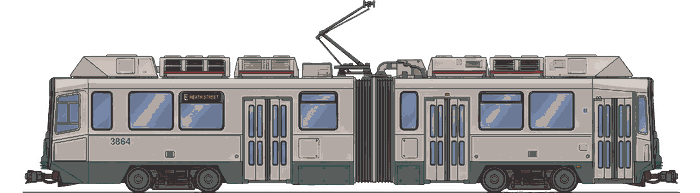
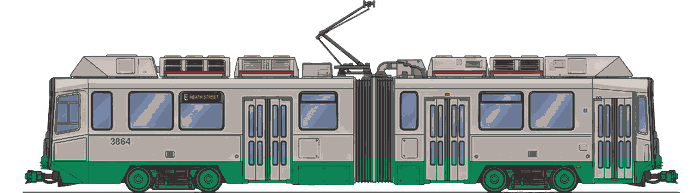
Add dedicated Sign In page; auto-poll for short ID assignment

Changed region(s): [[0.03, 0.8083, 0.96, 0.9948]]

diff --git a/index.html b/index.html
@@ -1705,6 +1705,21 @@ body.hide-chip-weather .route-status-chip > .chip-sep:not(.date-dot){display:non
    </div>
   </div>
 
+  <div class="panel full-bleed" id="signinPanel" style="display:none;">
+   <div class="full-bleed-inner">
+    <div class="panel-head">
+      <h2>Sign In</h2>
+      <span class="note">&mdash;</span>
+    </div>
+    <div class="back-link" id="signinBackBtn">&lsaquo; Back</div>
+    <div class="empty-state" style="text-align:left; padding:10px 4px;">
+      Sign in to report train info, set diversions, earn points, and more.
+    </div>
+    <button class="account-btn" id="signinGoogleBtn" style="width:100%; margin-top:14px;">Sign in with Google</button>
+    <button class="account-btn" id="signinIdBtn" style="width:100%; margin-top:10px; background:#374151;">Sign in with ID + PIN</button>
+   </div>
+  </div>
+
   <div class="panel full-bleed" id="carDetailPanel" style="display:none;">
    <div class="full-bleed-inner">
     <!-- No panel-head here on purpose: the outer header above already shows
@@ -2105,6 +2120,9 @@ const PAGES = {
   },
   SETTINGS: {
     hex:'#374151', label:'Settings', isSettings:true
+  },
+  SIGNIN: {
+    hex:'#1F2937', label:'Sign In', isSignin:true
   },
   CARDETAIL: {
     // No fixed label/hex — this page's identity (which car, which line) is
@@ -2977,6 +2995,42 @@ let stopArrivalTracker = {};
        match /admins/{uid} {
          allow read: if request.auth != null;
          allow write: if false; // add moderators manually in the Firebase console
+       }
+       // Same shape/trust model as admins/{uid} above (readable by any
+       // signed-in visitor — completeSignIn checks their own doc, the
+       // Members admin page lists the whole collection — writable only by
+       // moderators), except trusted members CAN be added/removed from the
+       // app itself (Members page), unlike admins.
+       match /trusted_members/{uid} {
+         allow read: if request.auth != null;
+         allow write: if request.auth != null
+           && exists(/databases/$(database)/documents/admins/$(request.auth.uid));
+       }
+       // Moderator-pushed alerts/notifications (Publish Alerts & Diversions
+       // page) — trigger a real push via sendPushOnModAlert/
+       // sendPushOnModNotification in functions/index.js the instant one is
+       // created, so write access is deliberately narrower than community_
+       // alerts below: only moderators or trusted members (both allowed to
+       // reach that page in the UI) can create one, not "if true". Read is
+       // open since every visitor's Alerts & Notifications modal loads
+       // these directly. Expired docs get opportunistically deleted by
+       // whichever visitor's client happens to load the list next
+       // (loadModAlerts/loadModNotifications) — that delete silently no-ops
+       // for a non-moderator visitor since it falls under this same write
+       // rule, which is fine, it's just best-effort tidying.
+       match /mod_alerts/{alertId} {
+         allow read: if true;
+         allow write: if request.auth != null && (
+           exists(/databases/$(database)/documents/admins/$(request.auth.uid)) ||
+           exists(/databases/$(database)/documents/trusted_members/$(request.auth.uid))
+         );
+       }
+       match /mod_notifications/{notifId} {
+         allow read: if true;
+         allow write: if request.auth != null && (
+           exists(/databases/$(database)/documents/admins/$(request.auth.uid)) ||
+           exists(/databases/$(database)/documents/trusted_members/$(request.auth.uid))
+         );
        }
        // pair_history used to live here — it's been moved to a Google Sheet
        // (see functions/index.js's commitPairChanges/getPairHistory) to cut
@@ -3893,7 +3947,7 @@ function switchPage(key){
   updateUrlForPage(state.activeLine, key);
   updateDocumentTitle(state.activeLine, key);
   const page = PAGES[key];
-  if(!page.isRoster && !page.isMembers && !page.isModNotifs && !page.isEditLogs && !page.isSettings && !page.isPoints && !page.isBugs && !page.isInspectors && !page.isCarDetail) state.lastMainPage = key;
+  if(!page.isRoster && !page.isMembers && !page.isModNotifs && !page.isEditLogs && !page.isSettings && !page.isPoints && !page.isBugs && !page.isInspectors && !page.isCarDetail && !page.isSignin) state.lastMainPage = key;
   // Car detail pages don't have a fixed label like every other page — the
   // header shows "Car <number>" built from whichever car is currently
   // being viewed (see state.viewingCarNumber, set just before this runs).
@@ -3929,6 +3983,7 @@ function switchPage(key){
   const inspectorsPanel = document.getElementById('inspectorsPanel');
   const settingsPanel = document.getElementById('settingsPanel');
   const carDetailPanel = document.getElementById('carDetailPanel');
+  const signinPanel = document.getElementById('signinPanel');
 
   mainGrid.style.display = 'none';
   const trainsPanelToggleBtn = document.getElementById('trainsPanelToggle');
@@ -3942,6 +3997,7 @@ function switchPage(key){
   inspectorsPanel.style.display = 'none';
   settingsPanel.style.display = 'none';
   carDetailPanel.style.display = 'none';
+  signinPanel.style.display = 'none';
   // Any live Leaflet map instance is tied to a DOM node inside carDetailBody;
   // hiding the panel above doesn't tear it down, so explicitly destroy it on
   // every navigation. Harmless no-op if nothing's been created yet, and
@@ -3971,7 +4027,7 @@ function switchPage(key){
   // scheduleModalRefresh) — without this, a modal open when you navigate
   // away would silently reopen itself up to 15s later, on top of whatever
   // page you'd since moved to.
-  if(page.isRoster || page.isMembers || page.isModNotifs || page.isEditLogs || page.isPoints || page.isBugs || page.isInspectors || page.isSettings || page.isCarDetail){
+  if(page.isRoster || page.isMembers || page.isModNotifs || page.isEditLogs || page.isPoints || page.isBugs || page.isInspectors || page.isSettings || page.isCarDetail || page.isSignin){
     document.getElementById('carModalOverlay').classList.remove('show');
     modalRefreshToken++;
   }
@@ -4008,6 +4064,10 @@ function switchPage(key){
   }
   if(page.isBugs){
     bugsPanel.style.display = 'block';
+    return;
+  }
+  if(page.isSignin){
+    signinPanel.style.display = 'block';
     return;
   }
   if(page.isInspectors){
@@ -9697,11 +9757,12 @@ const FLAT_ROUTE_TO_PAGE = {
   'points': 'POINTS',
   'moderation': 'MEMBERS',
   'pushalerts': 'MODNOTIFS',
-  'editlog': 'EDITLOGS'
+  'editlog': 'EDITLOGS',
+  'signin': 'SIGNIN'
 };
 const PAGE_TO_FLAT_ROUTE = {
   SETTINGS:'setting', BUGS:'bugs', INSPECTORS:'greenlineinspectors', POINTS:'points',
-  MEMBERS:'moderation', MODNOTIFS:'pushalerts', EDITLOGS:'editlog'
+  MEMBERS:'moderation', MODNOTIFS:'pushalerts', EDITLOGS:'editlog', SIGNIN:'signin'
 };
 function isTrackablePage(key){
   return Object.values(LINE_PAGE_KEYS).some(keys => keys.includes(key));
@@ -9977,6 +10038,7 @@ async function completeSignIn(name, email, uid, photoURL, shortId){
   document.getElementById('userChip').title = name + (state.isModerator ? ' \u00b7 Mod' : (state.isTrustedMember ? ' \u00b7 Trusted Member' : ''));
   document.getElementById('accountNameInput').value = name;
   renderAccountShortId();
+  if(!state.shortId) pollForShortId();
   document.getElementById('menuAccountSection').style.display = 'block';
   document.getElementById('membersMenuLink').style.display = state.isModerator ? 'flex' : 'none';
   document.getElementById('modNotifsMenuLink').style.display = (state.isModerator || state.isTrustedMember) ? 'flex' : 'none';
@@ -9988,6 +10050,13 @@ async function completeSignIn(name, email, uid, photoURL, shortId){
   if(freshSignInInProgress){
     freshSignInInProgress = false;
     showWelcomeScreen(name);
+  }
+  // Signing in from the dedicated Sign In page (see googleSignInBtn's click
+  // handler above) leaves state.currentPage sitting on SIGNIN once this
+  // resolves — that page's two buttons no longer make sense once the person
+  // is actually signed in, so bounce back to wherever they were before.
+  if(state.currentPage === 'SIGNIN'){
+    switchPage(state.lastMainPage || LINE_DEFAULT_PAGE[state.activeLine] || 'B');
   }
   resolveGatedPageIfPending();
 }
@@ -10107,7 +10176,13 @@ async function attemptSignIn(){
   completeSignIn(name.trim(), '', null);
 }
 
-document.getElementById('googleSignInBtn').addEventListener('click', attemptSignIn);
+// Signed out, the person icon used to launch the Google popup directly —
+// now it opens a dedicated Sign In page (see the SIGNIN page/panel above)
+// offering a real choice between Google and ID+PIN instead of assuming
+// Google is what everyone wants. That page's own two buttons (wired below,
+// right after showIdSignInModal is defined) call attemptSignIn/
+// showIdSignInModal exactly like this button used to.
+document.getElementById('googleSignInBtn').addEventListener('click', ()=> switchPage('SIGNIN'));
 
 /* ---------------- Sign-in with ID ----------------
    Everyone gets a permanent 5-digit ID the moment their account is first
@@ -10132,7 +10207,12 @@ function renderAccountShortId(){
 // yet. Re-checked every time the account menu opens (see menuBtn's click
 // listener below) so it fills in the moment it's ready, with no reload
 // needed. No-ops immediately once state.shortId is set, so this is cheap
-// to call on every menu open thereafter.
+// to call on every menu open thereafter. Also polled automatically right
+// after a fresh sign-in (see pollForShortId below) — relying on someone
+// happening to close and reopen the account menu was the whole reason
+// short ID assignment felt like it "took forever": the value was usually
+// ready within a second or two, but nothing ever re-checked it until the
+// person manually reopened the menu.
 async function refreshAccountShortId(){
   if(!firebaseReady || !state.uid || state.shortId) return;
   try{
@@ -10142,6 +10222,25 @@ async function refreshAccountShortId(){
       renderAccountShortId();
     }
   }catch(e){ console.error(e); }
+}
+
+// Called once from completeSignIn() whenever a session starts without a
+// shortId already known — retries refreshAccountShortId a handful of times
+// a couple seconds apart (the Firestore trigger that assigns it usually
+// finishes within a second or two) so the ID shows up in the account menu
+// on its own, instead of only ever updating if the person happens to close
+// and reopen that menu. Self-cancels the moment it succeeds or after
+// SHORT_ID_POLL_MAX_ATTEMPTS tries, whichever comes first — cheap either
+// way since refreshAccountShortId is already a no-op once state.shortId is set.
+const SHORT_ID_POLL_MAX_ATTEMPTS = 10;
+const SHORT_ID_POLL_INTERVAL_MS = 1500;
+function pollForShortId(){
+  let attempts = 0;
+  const timer = setInterval(async ()=>{
+    attempts++;
+    await refreshAccountShortId();
+    if(state.shortId || attempts >= SHORT_ID_POLL_MAX_ATTEMPTS) clearInterval(timer);
+  }, SHORT_ID_POLL_INTERVAL_MS);
 }
 
 document.getElementById('setPinBtn').addEventListener('click', async ()=>{
@@ -10228,6 +10327,14 @@ function showIdSignInModal(){
 }
 
 document.getElementById('idSignInBtn').addEventListener('click', showIdSignInModal);
+
+// The dedicated Sign In page's own two buttons — same handlers as the old
+// direct-to-Google icon and the small "ID" link, just offered side by side
+// on their own page now instead of one being the default and the other a
+// tiny secondary link.
+document.getElementById('signinGoogleBtn').addEventListener('click', attemptSignIn);
+document.getElementById('signinIdBtn').addEventListener('click', showIdSignInModal);
+document.getElementById('signinBackBtn').addEventListener('click', ()=> switchPage(state.lastMainPage || 'B'));
 
 document.getElementById('menuBtn').addEventListener('click', (e)=>{
   e.stopPropagation();
@@ -11556,7 +11663,7 @@ if(headerEl && trackMapPanel){
 function isOnLiveTrackPage(){
   const page = PAGES[state.currentPage];
   if(!page) return false;
-  return !(page.isRoster || page.isMembers || page.isModNotifs || page.isEditLogs || page.isPoints || page.isBugs || page.isInspectors || page.isSettings);
+  return !(page.isRoster || page.isMembers || page.isModNotifs || page.isEditLogs || page.isPoints || page.isBugs || page.isInspectors || page.isSettings || page.isSignin);
 }
 // Runs fn() once immediately (same as before), then re-runs it on the given
 // interval ONLY while the tab is actually visible and (if scoped) the user
